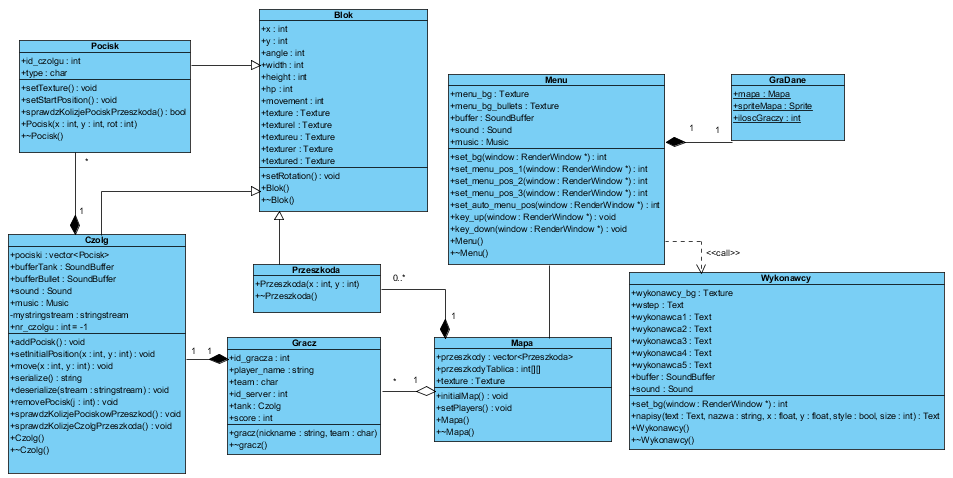
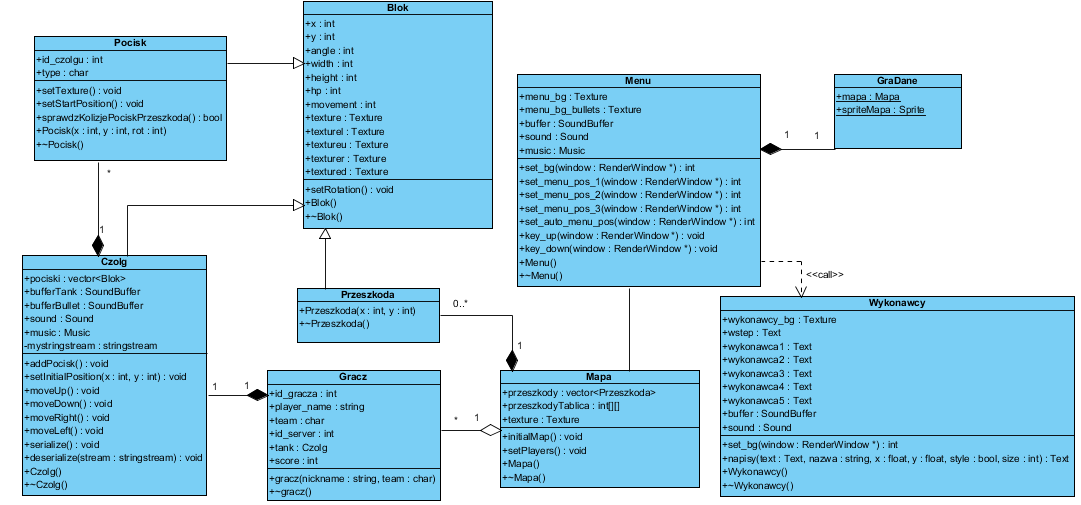
Poprawa uruchamiania servera

Changed region(s): [[0.0, 0.0, 1.0, 0.9958]]

diff --git a/Project1/Project1/Czolg.cpp b/Project1/Project1/Czolg.cpp
@@ -9,7 +9,7 @@ std::string Czolg::serialize()
 	std::ostringstream archive_ostream;
 	std::string serialized_data_str;
 	boost::archive::text_oarchive oarchive(archive_ostream);
-	oarchive << this->x << this->y << this->angle << this->height << this->width << this->hp << this->nr_czolgu;
+	oarchive << this->x << this->y << this->angle << this->height << this->width << this->hp;
 	oarchive << this->pociski.size();
 	for (int i = 0; i < this->pociski.size(); i++)
 	{
@@ -18,7 +18,7 @@ std::string Czolg::serialize()
 		oarchive << pociski[i].angle;
 	}
 	serialized_data_str = archive_ostream.str();
-	//std::cout << "[TANK]serialized data: " << serialized_data_str << std::endl;
+	std::cout << "[TANK]serialized data: " << serialized_data_str << std::endl;
 	return serialized_data_str;
 
 }
@@ -34,21 +34,25 @@ void Czolg::deserialize(std::string stream)
 	iarchive >> this->height;
 	iarchive >> this->width;
 	iarchive >> this->hp;
-	iarchive >> this->nr_czolgu;
 	int number_of_bullets;
 	iarchive >> number_of_bullets;
+	cout <<"NUMBER OF BUTTLESESSES"<< number_of_bullets<< "  "<< pociski.size() << endl;
 	pociski.clear();
 	for (int i = 0; i < number_of_bullets; i++)
 	{
 		Pocisk pocisk_temp(0,0,0);
+
+		cout << "STAGE 1" << endl;
 		iarchive >> pocisk_temp.x;
+		cout << "STAGE 2" << endl;
 		iarchive >> pocisk_temp.y;
+		cout << "STAGE 3" << endl;
 		iarchive >> pocisk_temp.angle;
+		cout << "STAGE 4" << endl;
 		pociski.push_back(pocisk_temp);
 	}
 	
-	
-	//std::cout << "Czolg zostal poprawnie zdeserializowany" << std::endl;
+	std::cout << "Czolg zostal poprawnie zdeserializowany" << std::endl;
 }
 
 
@@ -118,16 +122,11 @@ void Czolg::removePocisk(int j)
 void Czolg::move(int x, int y)
 {
 	sound.setBuffer(bufferTank);
-	setRotation();
+
 	//sound.play();
-	if (!(sprawdzKolizjeCzolgPrzeszkoda()))
-	{
-		this->y += y*movement;
-		this->x += x*movement;
-	}
+	this->y += y*movement;
+	this->x += x*movement;
 }
-
-
 bool Czolg::sprawdzKolizjeCzolgPrzeszkoda()
 {
 	int mapa_przeszkody_size = GraDane::mapa.przeszkody.size();

diff --git a/Project1/Project1/Czolg.h b/Project1/Project1/Czolg.h
@@ -25,7 +25,6 @@ public:
 	void deserialize(std::string stream);
 	void sprawdzKolizjePociskowPrzeszkod();
 	bool sprawdzKolizjeCzolgPrzeszkoda();
-	int nr_czolgu = -1;
 
 	sf::SoundBuffer bufferTank;
 	sf::SoundBuffer bufferBullet;

diff --git a/Project1/Project1/ClientTCP.h b/Project1/Project1/ClientTCP.h
@@ -15,7 +15,7 @@ public:
 	ClientTCP(Czolg * source_tank_pointer);
 	~ClientTCP();
 
-	static int nr_of_clients;
+	int nr_of_clients = 0;
 	void deserialize(std::string stream);
 
 	void send(std::string message);

diff --git a/Project1/Project1/ServerTCP.h b/Project1/Project1/ServerTCP.h
@@ -24,8 +24,6 @@ public:
 	
 	void RunInit();
 	void runGame();
-	void sprawdzKolizjePociskCzolg(int index);
-	void sprawdzKolizjePociskCzolgs();
 	Czolg tank[4];
 	
 private:
